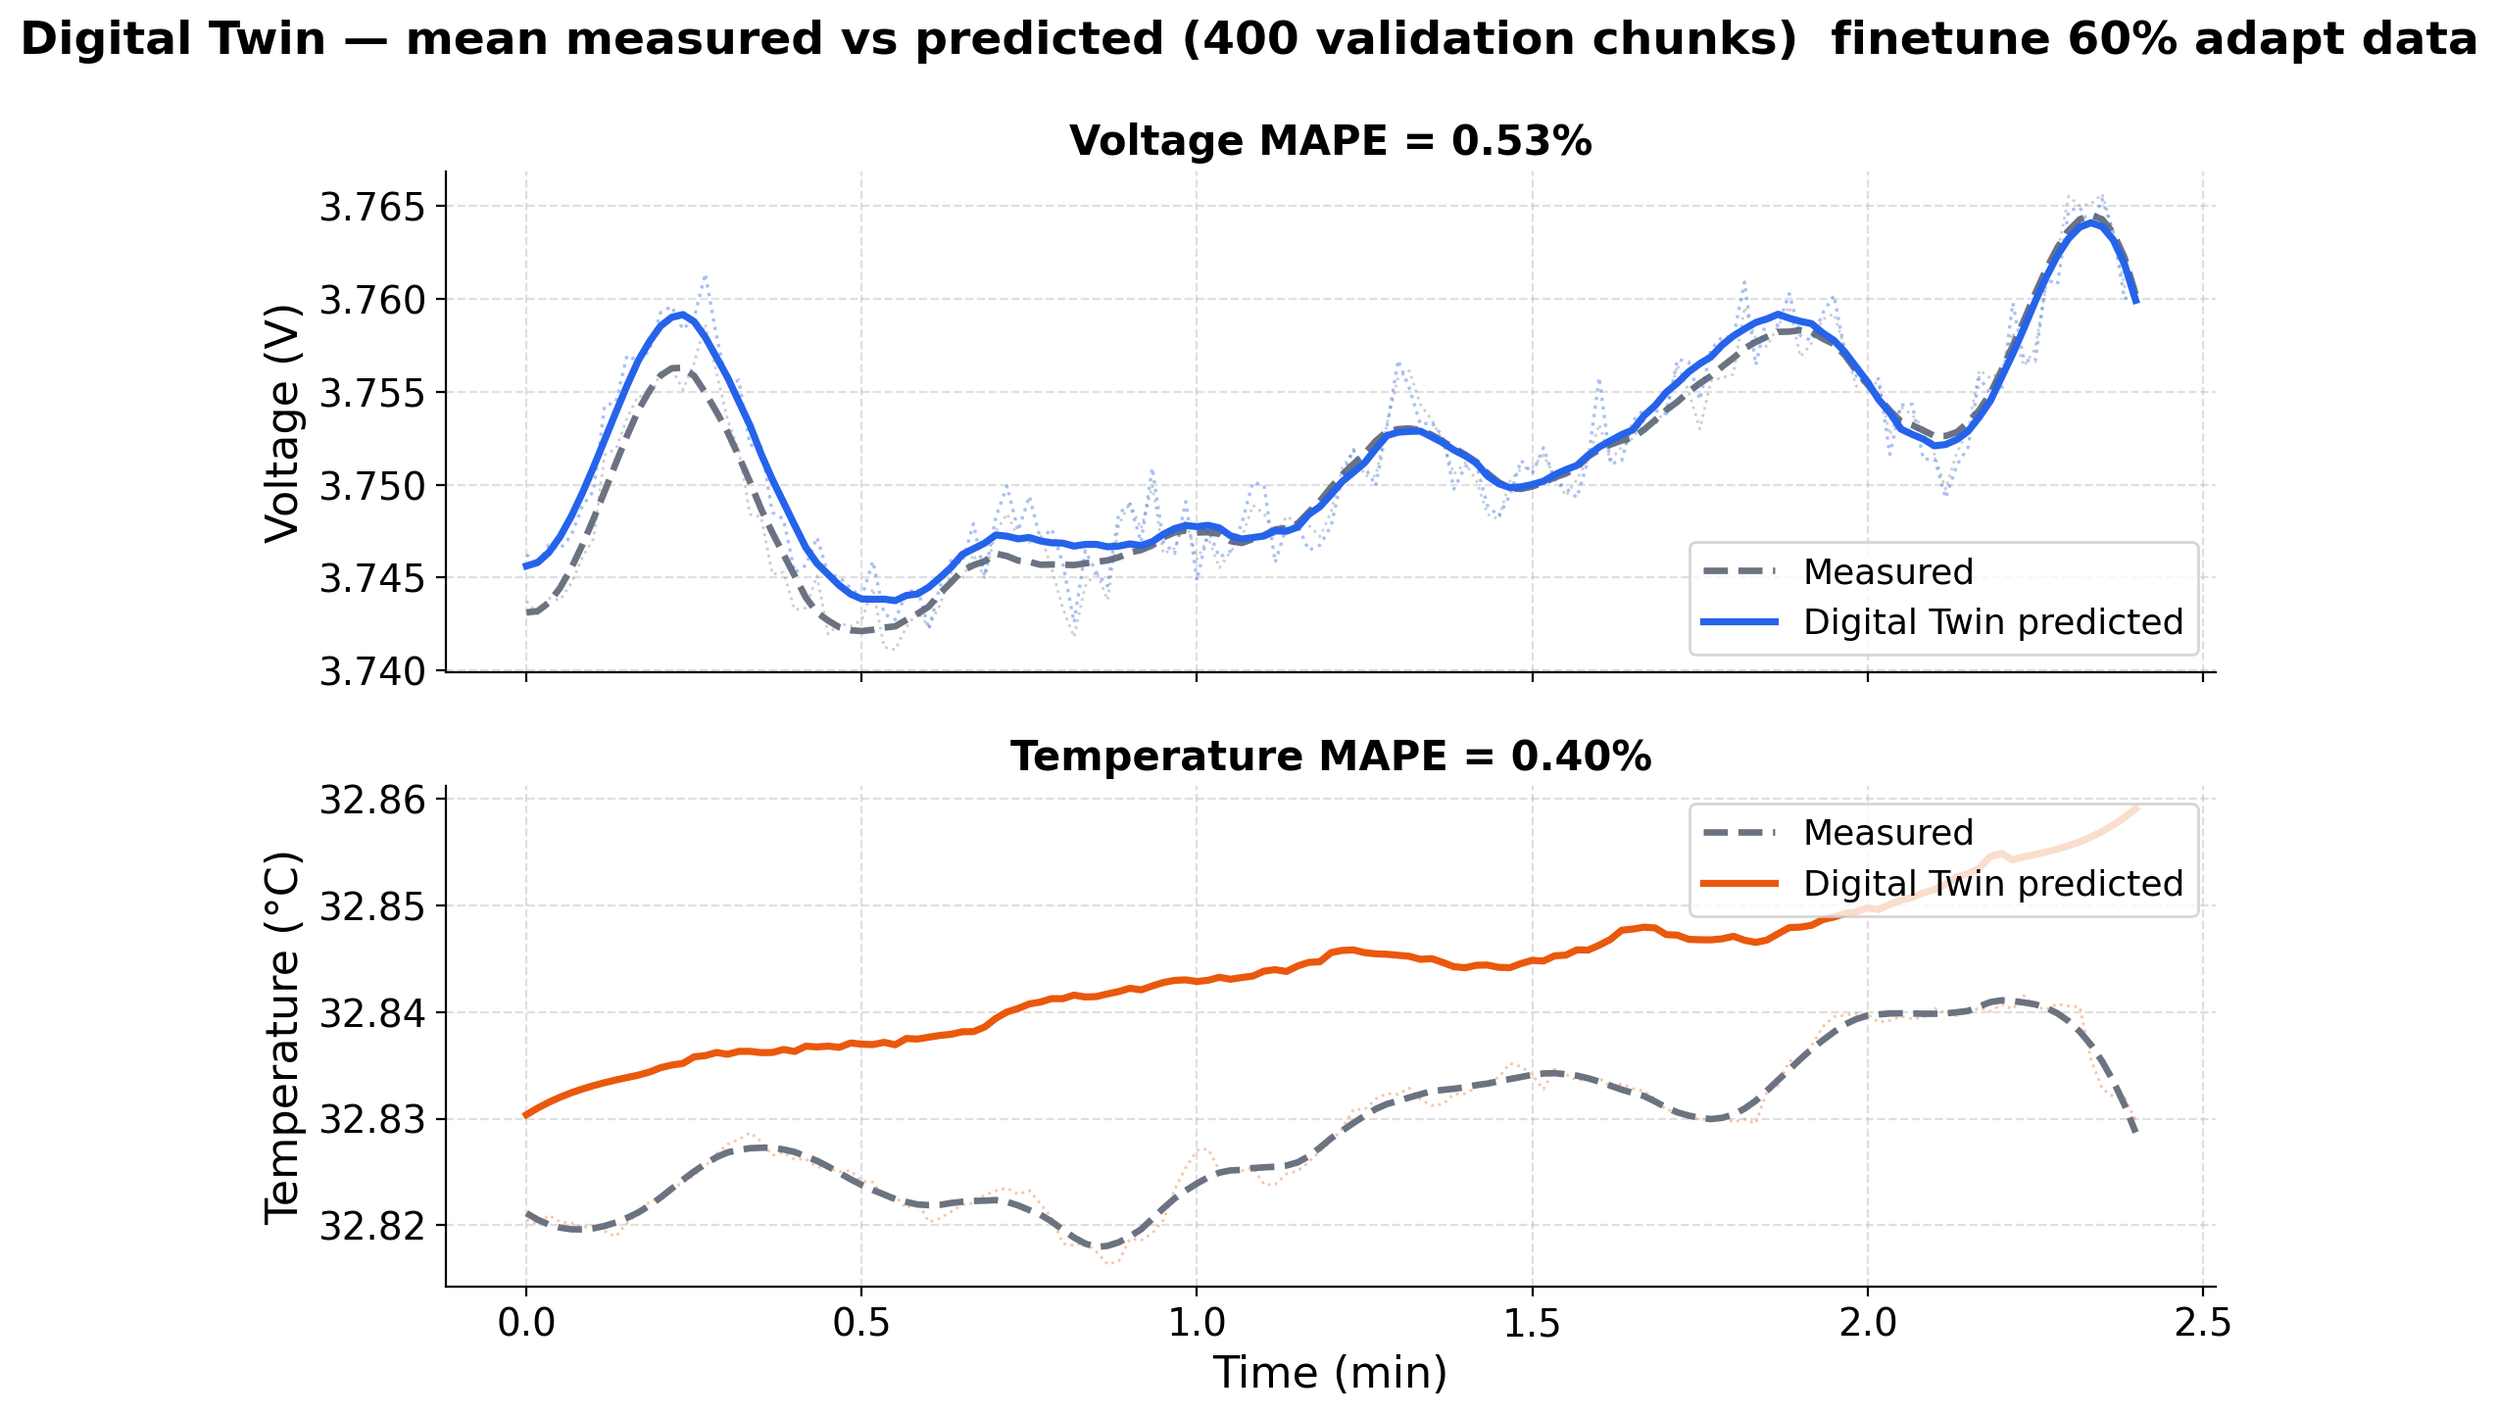
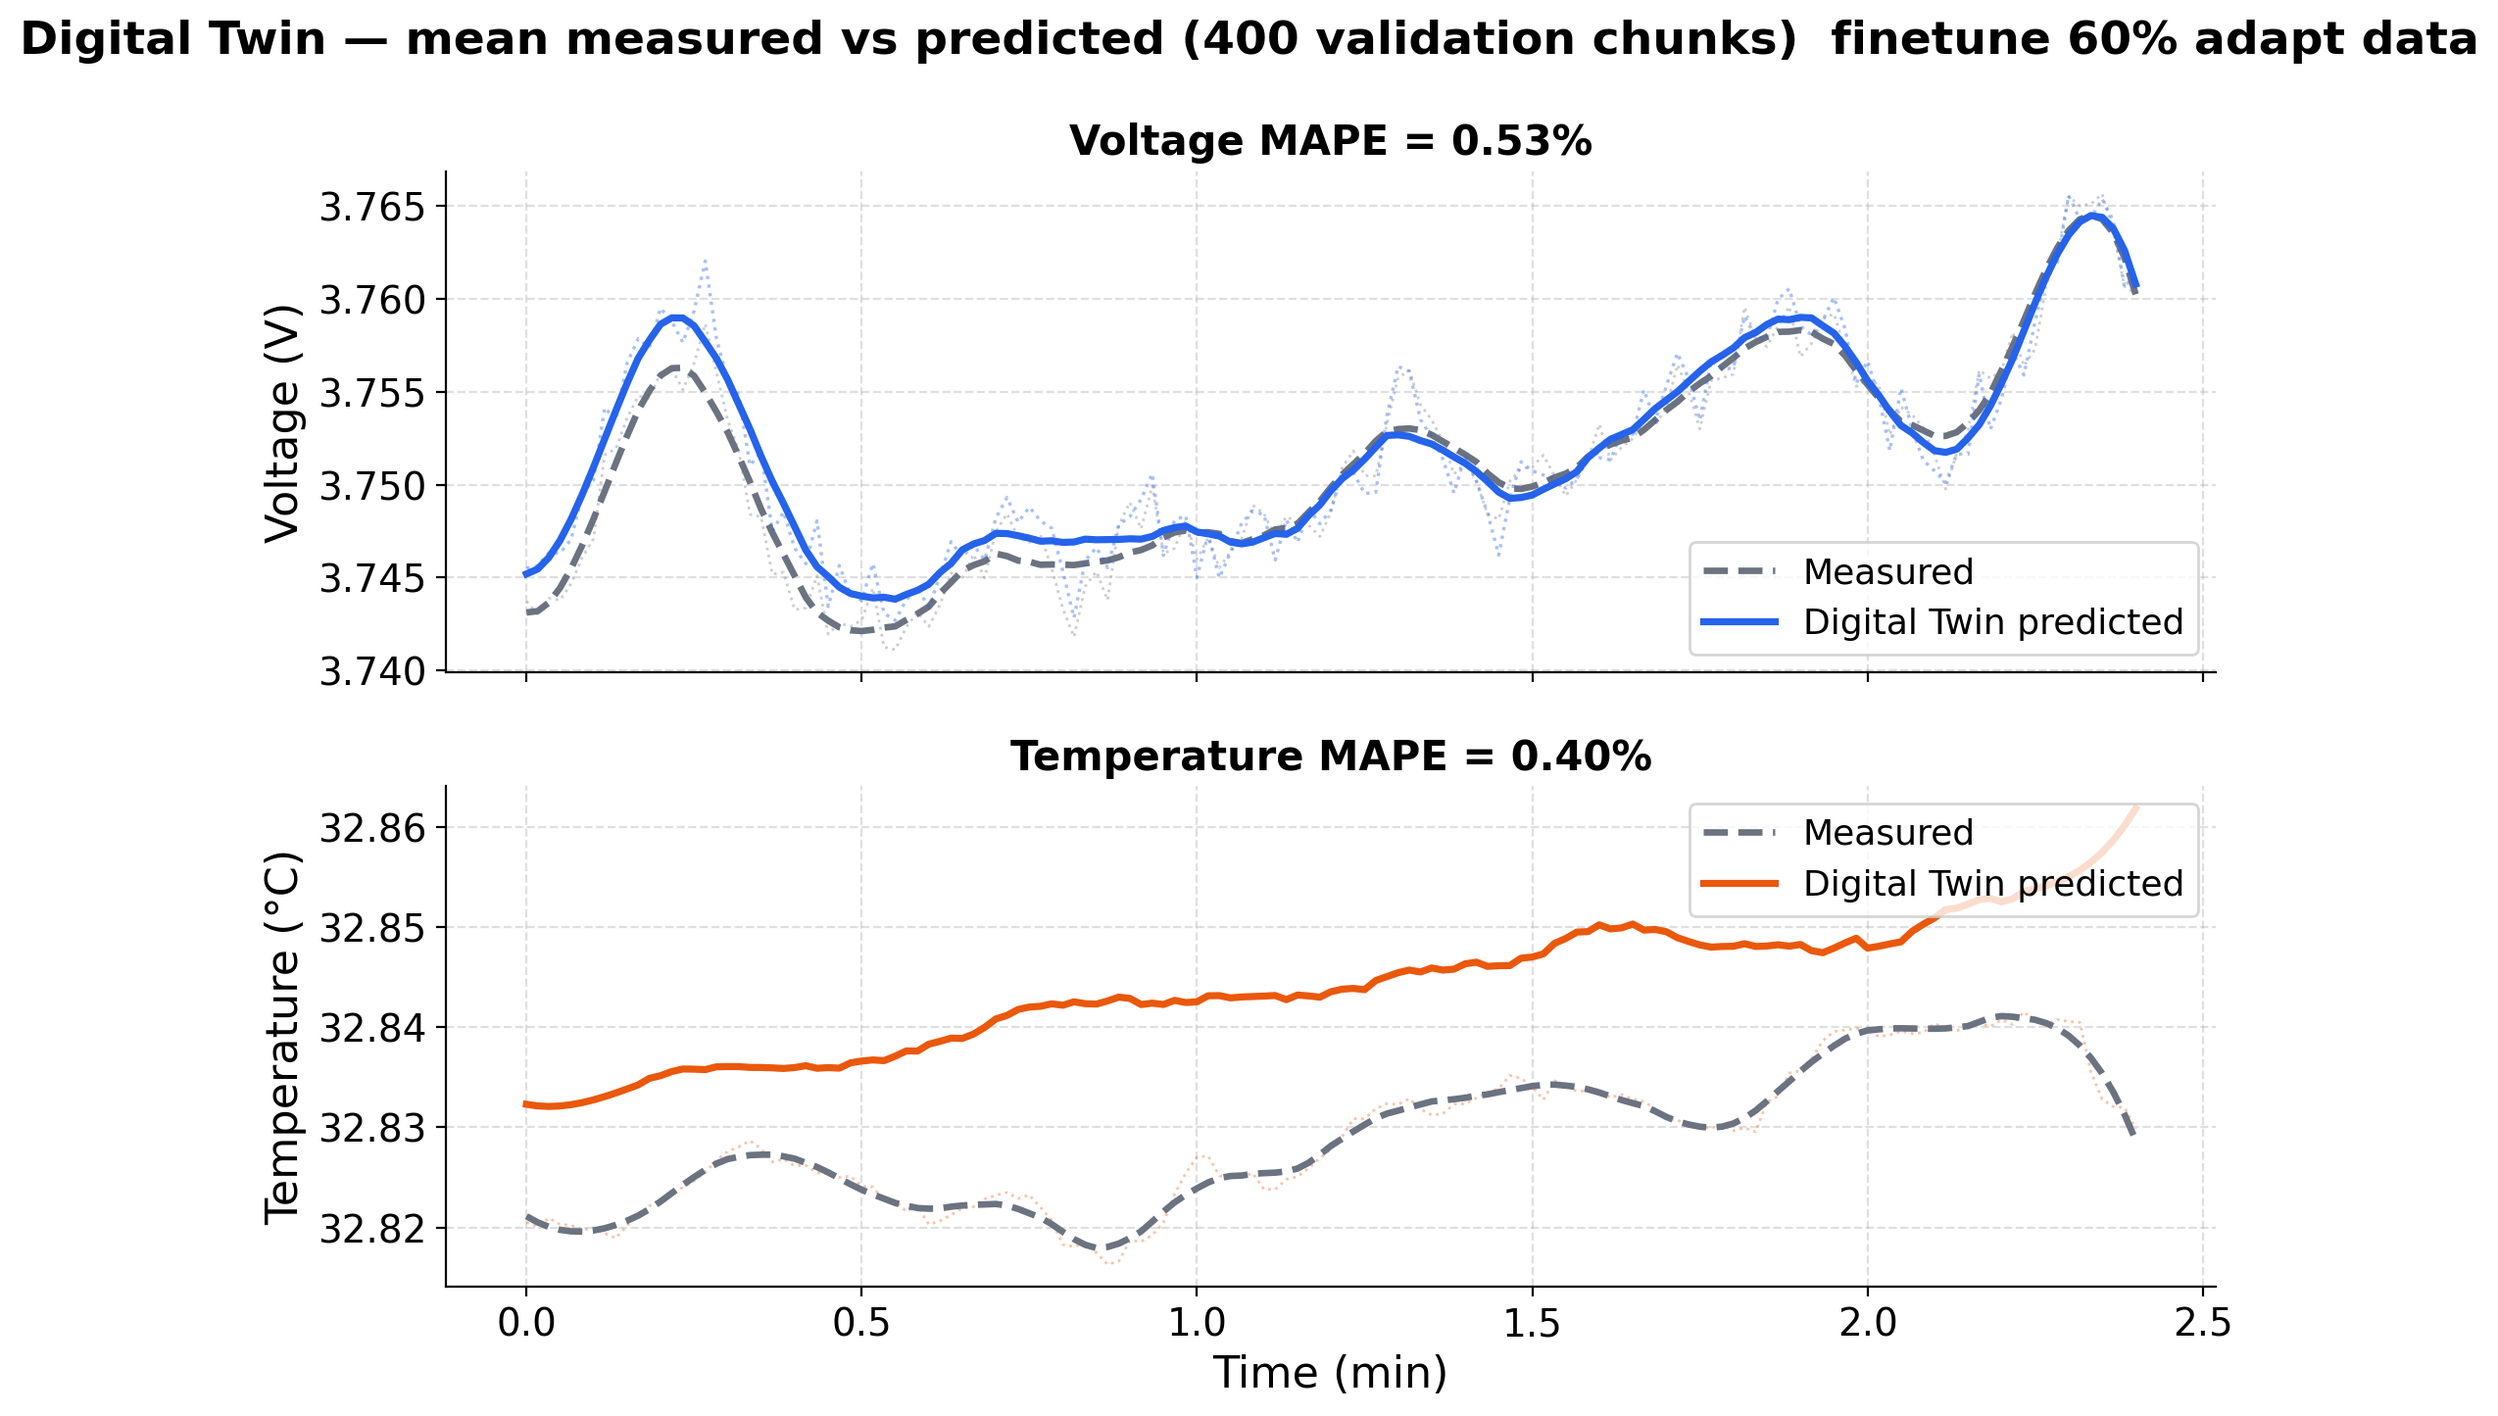
updated paper level results

diff --git a/rw_transfer/viz/twin_validation_plots.py b/rw_transfer/viz/twin_validation_plots.py
@@ -425,6 +425,121 @@ def plot_digital_twin_validation(
     _savefig(fig, out_path)
 
 
+def plot_digital_twin_validation_separate(
+    samples: Sequence[Dict[str, Any]],
+    out_dir: Path,
+    *,
+    voltage_ylim: Optional[Tuple[float, float]] = None,
+) -> List[Path]:
+    """
+    Save each voltage / temperature panel as its own square PNG (no figure title).
+
+    Intended for LaTeX ``\\includegraphics`` arrangement. Files land in ``out_dir``:
+      chunk{idx}_voltage.png , chunk{idx}_temperature.png
+    """
+    if not samples:
+        return []
+
+    out_dir = Path(out_dir)
+    out_dir.mkdir(parents=True, exist_ok=True)
+
+    label_fs, title_fs, tick_fs, legend_fs = 9, 8, 8, 6.5
+    line_lw, spine_lw = 1.6, 0.75
+    text_kw = dict(fontsize=label_fs, fontfamily="DejaVu Serif")
+    title_kw = dict(fontsize=title_fs, fontweight="bold", fontfamily="DejaVu Serif", pad=2)
+    legend_kw = dict(
+        fontsize=legend_fs, framealpha=0.9, borderpad=0.25, labelspacing=0.25,
+        handlelength=1.4, handletextpad=0.4,
+        prop={"family": "DejaVu Serif", "size": legend_fs},
+    )
+    saved: List[Path] = []
+
+    def _style(ax: plt.Axes) -> None:
+        ax.set_facecolor(LIGHT_BG)
+        ax.grid(False)
+        ax.set_box_aspect(1)
+        ax.tick_params(labelsize=tick_fs, width=spine_lw, length=2.2, pad=1.0)
+        ax.spines["top"].set_visible(False)
+        ax.spines["right"].set_visible(False)
+        for spine in ("bottom", "left"):
+            ax.spines[spine].set_linewidth(spine_lw)
+        for lab in ax.get_xticklabels() + ax.get_yticklabels():
+            lab.set_fontfamily("DejaVu Serif")
+
+    for samp in samples:
+        st = samp["burn_in"]
+        T = len(samp["v_actual"])
+        t_axis = samp["t_minutes"][st:] if len(samp["t_minutes"]) >= T - st else (
+            np.arange(T - st, dtype=np.float64) * samp["dt_s"] / 60.0
+        )
+        v_a = samp["v_actual"][st:]
+        v_p = samp["v_pred"][st:]
+        t_a = samp["t_actual"][st:]
+        t_p = samp["t_pred"][st:]
+        cid = int(samp["chunk_idx"])
+
+        # ── voltage ──────────────────────────────────────────────────────────
+        fig, ax = plt.subplots(figsize=(2.2, 2.2), facecolor=LIGHT_BG)
+        _style(ax)
+        ax.plot(t_axis, v_a, color=GREY, linestyle=":", alpha=0.35, lw=1.0, zorder=1)
+        ax.plot(
+            t_axis, _savgol_display(v_a), color=GREY, linestyle="--",
+            label="Measured", alpha=0.85, lw=line_lw, zorder=2,
+        )
+        ax.plot(t_axis, v_p, color=ACCENT, linestyle=":", alpha=0.4, lw=1.0, zorder=3)
+        ax.plot(
+            t_axis, _savgol_display(v_p), color=ACCENT, linestyle="-",
+            label="Predicted", lw=line_lw, zorder=4,
+        )
+        ax.set_title(
+            f"Chunk {cid} — Rel. age = {samp['rel_age']:.3f}\n"
+            f"Voltage MAPE = {samp['mape_v']:.2f}%",
+            **title_kw,
+        )
+        ax.set_xlabel("Time (min)", **text_kw)
+        ax.set_ylabel("Voltage (V)", **text_kw)
+        ax.legend(loc="best", **legend_kw)
+        if voltage_ylim is not None:
+            ax.set_ylim(*voltage_ylim)
+        else:
+            v_lo = min(float(np.min(v_a)), float(np.min(v_p)))
+            v_hi = max(float(np.max(v_a)), float(np.max(v_p)))
+            pad = max(0.05, 0.05 * (v_hi - v_lo))
+            ax.set_ylim(v_lo - pad, v_hi + pad)
+        fig.subplots_adjust(left=0.22, right=0.98, bottom=0.18, top=0.82)
+        v_path = out_dir / f"chunk{cid}_voltage.png"
+        _savefig(fig, v_path, dpi=400, pad_inches=0.01)
+        saved.append(v_path)
+
+        # ── temperature ──────────────────────────────────────────────────────
+        fig, ax = plt.subplots(figsize=(2.2, 2.2), facecolor=LIGHT_BG)
+        _style(ax)
+        ax.plot(t_axis, t_a, color=ORANGE, linestyle=":", alpha=0.35, lw=1.0, zorder=1)
+        ax.plot(
+            t_axis, _savgol_display(t_a), color=GREY, linestyle="--",
+            label="Measured", alpha=0.85, lw=line_lw, zorder=2,
+        )
+        ax.plot(t_axis, t_p, color=ORANGE, linestyle=":", alpha=0.4, lw=1.0, zorder=3)
+        ax.plot(
+            t_axis, _savgol_display(t_p), color=ORANGE, linestyle="-",
+            label="Predicted", lw=line_lw, zorder=4,
+        )
+        ax.set_title(
+            f"Chunk {cid} — Rel. age = {samp['rel_age']:.3f}\n"
+            f"Temperature MAPE = {samp['mape_t']:.2f}%",
+            **title_kw,
+        )
+        ax.set_xlabel("Time (min)", **text_kw)
+        ax.set_ylabel("Temperature (°C)", **text_kw)
+        ax.legend(loc="best", **legend_kw)
+        fig.subplots_adjust(left=0.22, right=0.98, bottom=0.18, top=0.82)
+        t_path = out_dir / f"chunk{cid}_temperature.png"
+        _savefig(fig, t_path, dpi=400, pad_inches=0.01)
+        saved.append(t_path)
+
+    return saved
+
+
 @torch.no_grad()
 def compute_val_mean_trajectories(
     trainer: TwinTrainer,

diff --git a/rw_transfer/viz/plots.py b/rw_transfer/viz/plots.py
@@ -54,11 +54,11 @@ SCRATCH_COLOR  = ORANGE
 FULL_COLOR     = GREEN
 
 
-def _savefig(fig: plt.Figure, path: Path, **kwargs) -> None:
+def _savefig(fig: plt.Figure, path: Path, dpi: int = 200, pad_inches: float = 0.1, **kwargs) -> None:
     path = Path(path)
     path.parent.mkdir(parents=True, exist_ok=True)
     fig.savefig(
-        path, dpi=200, bbox_inches="tight",
+        path, dpi=dpi, bbox_inches="tight", pad_inches=pad_inches,
         facecolor=LIGHT_BG, edgecolor=LIGHT_BG, transparent=False, **kwargs,
     )
     plt.close(fig)
@@ -67,7 +67,7 @@ def _savefig(fig: plt.Figure, path: Path, **kwargs) -> None:
 # ── Training curves ───────────────────────────────────────────────────────────
 
 def plot_twin_training_curves(log_path: Path, out_path: Path) -> None:
-    """Training loss + val V/T RMSE over epochs from JSONL log."""
+    """Save three separate square panels (loss / V / T) for LaTeX arrangement."""
     log_path = Path(log_path)
     if not log_path.is_file():
         return
@@ -80,32 +80,44 @@ def plot_twin_training_curves(log_path: Path, out_path: Path) -> None:
             val_v.append(row.get("val_voltage_rmse"))
             val_t.append(row.get("val_temp_rmse"))
 
-    fig, axes = plt.subplots(1, 3, figsize=(13, 3.5), facecolor=LIGHT_BG)
-    for ax in axes:
+    label_fs, title_fs, tick_fs = 8, 7.5, 7
+    line_lw, spine_lw = 1.5, 0.75
+    text_kw = dict(fontsize=label_fs, fontfamily="DejaVu Serif")
+    title_kw = dict(fontsize=title_fs, fontweight="bold", fontfamily="DejaVu Serif", pad=2)
+    plot_kw = dict(lw=line_lw, solid_capstyle="round", solid_joinstyle="round", antialiased=True)
+
+    panels = [
+        ("loss", train_loss, ACCENT, "Train loss", "Training Loss\n(Weighted MSE)"),
+        ("voltage", val_v, ORANGE, "RMSE (V)", "Val voltage\nRMSE"),
+        ("temp", val_t, GREEN, "RMSE (°C)", "Val temperature\nRMSE"),
+    ]
+
+    out_path = Path(out_path)
+    for key, y, color, ylabel, title in panels:
+        if key == "temp" and not any(v is not None and np.isfinite(v) for v in val_t):
+            continue
+
+        fig, ax = plt.subplots(figsize=(1.6, 1.6), facecolor=LIGHT_BG)
         ax.set_facecolor(LIGHT_BG)
+        ax.grid(False)
+        ax.set_box_aspect(1)
+        ax.tick_params(labelsize=tick_fs, width=spine_lw, length=2.2, pad=1.0)
+        ax.spines["top"].set_visible(False)
+        ax.spines["right"].set_visible(False)
+        for spine in ("bottom", "left"):
+            ax.spines[spine].set_linewidth(spine_lw)
 
-    axes[0].plot(epochs, train_loss, color=ACCENT, lw=1.5)
-    axes[0].set_xlabel("Epoch")
-    axes[0].set_ylabel("Train loss")
-    axes[0].set_title("Training loss (weighted MSE)")
+        ax.plot(epochs, y, color=color, **plot_kw)
+        ax.set_xlabel("Epoch", **text_kw)
+        ax.set_ylabel(ylabel, **text_kw)
+        ax.set_title(title, **title_kw)
+        ax.set_xticks([0, 50, 100])
+        for label in ax.get_xticklabels() + ax.get_yticklabels():
+            label.set_fontfamily("DejaVu Serif")
 
-    axes[1].plot(epochs, val_v, color=ORANGE, lw=1.5)
-    axes[1].set_xlabel("Epoch")
-    axes[1].set_ylabel("RMSE (V)")
-    axes[1].set_title("Val voltage RMSE")
-
-    has_t = any(v is not None and np.isfinite(v) for v in val_t)
-    if has_t:
-        axes[2].plot(epochs, val_t, color=GREEN, lw=1.5)
-        axes[2].set_xlabel("Epoch")
-        axes[2].set_ylabel("RMSE (°C)")
-        axes[2].set_title("Val temperature RMSE")
-    else:
-        axes[2].set_visible(False)
-
-    fig.suptitle("Digital twin — training curves", fontsize=11, fontweight="bold")
-    fig.tight_layout()
-    _savefig(fig, out_path)
+        fig.subplots_adjust(left=0.22, right=0.98, bottom=0.20, top=0.82)
+        panel_path = out_path.with_name(f"{out_path.stem}_{key}{out_path.suffix}")
+        _savefig(fig, panel_path, dpi=400, pad_inches=0.01)
 
 
 def plot_soc_training_curves(log_path: Path, out_path: Path) -> None:

diff --git a/scripts/export_digital_twin_panels.py b/scripts/export_digital_twin_panels.py
@@ -1,0 +1,99 @@
+#!/usr/bin/env python3
+"""
+Export separate square digital-twin validation panels for LaTeX.
+
+For each cell under final_seperate_graphs/{RW9,RW10,RW11,RW12}/ creates:
+
+    digital_twin_panels/chunk{idx}_voltage.png
+    digital_twin_panels/chunk{idx}_temperature.png
+
+No overall figure title; minimal margins; manuscript-sized serif fonts.
+
+Usage
+-----
+    python scripts/export_digital_twin_panels.py --device cpu
+"""
+
+from __future__ import annotations
+
+import argparse
+import json
+import sys
+from pathlib import Path
+
+ROOT = Path(__file__).resolve().parents[1]
+sys.path.insert(0, str(ROOT))
+
+from rw_transfer.config import load_config
+from rw_transfer.data.author_dataset import AuthorChunkDataset, random_split_author_dataset
+from rw_transfer.data.author_loader import load_author_stitched_series
+from rw_transfer.training.twin_trainer import TwinTrainer
+from rw_transfer.viz.twin_validation_plots import (
+    pick_best_validation_chunks,
+    plot_digital_twin_validation_separate,
+)
+
+BASE = ROOT / "outputs" / "final_twin_for_all_cell" / "final_seperate_graphs"
+CELLS = ("RW9", "RW10", "RW11", "RW12")
+
+
+def _export_cell(cell: str, device: str, n_panels: int, burn_in: int, seed: int) -> None:
+    metrics_path = BASE / cell / "metrics.json"
+    if not metrics_path.is_file():
+        print(f"  skip {cell}: no metrics.json")
+        return
+    meta = json.loads(metrics_path.read_text())
+    ckpt = Path(meta["ckpt"])
+    if not ckpt.is_file():
+        print(f"  skip {cell}: missing ckpt {ckpt}")
+        return
+
+    cfg = load_config(None)
+    twin_cfg = cfg["twin"]
+    matlab_dir = cfg["data"]["matlab_dir"]
+    decimation = int(cfg["data"].get("decimation", 1))
+    chunk_size = int(twin_cfg.get("chunk_size", cfg["windows"]["seq_len"]))
+    split_cfg = twin_cfg.get("author_split", {})
+    train_frac = float(split_cfg.get("train_frac", 0.6))
+    val_frac = float(split_cfg.get("val_frac", 0.2))
+
+    out_dir = BASE / cell / "digital_twin_panels"
+    print(f"\n=== {cell}  ckpt={ckpt.name}  →  {out_dir}")
+
+    stitched = load_author_stitched_series(matlab_dir, cell, decimation=decimation)
+    dataset = AuthorChunkDataset(stitched, chunk_size=chunk_size)
+    _, _, test_set = random_split_author_dataset(
+        dataset, train_frac=train_frac, val_frac=val_frac, seed=seed,
+    )
+    trainer = TwinTrainer.load(ckpt, device=device, seq_len=chunk_size)
+
+    samples = pick_best_validation_chunks(
+        trainer, test_set, stitched, n=n_panels, burn_in=burn_in,
+        age_min=0.25, age_max=0.75,
+    )
+    if not samples:
+        samples = pick_best_validation_chunks(
+            trainer, test_set, stitched, n=n_panels, burn_in=burn_in,
+        )
+
+    saved = plot_digital_twin_validation_separate(samples, out_dir)
+    for p in saved:
+        print(f"  saved {p.name}")
+
+
+def main() -> None:
+    ap = argparse.ArgumentParser()
+    ap.add_argument("--device", default="cpu")
+    ap.add_argument("--n_panels", type=int, default=3)
+    ap.add_argument("--burn_in", type=int, default=5)
+    ap.add_argument("--seed", type=int, default=42)
+    ap.add_argument("--cells", nargs="+", default=list(CELLS))
+    args = ap.parse_args()
+
+    for cell in args.cells:
+        _export_cell(cell, args.device, args.n_panels, args.burn_in, args.seed)
+    print("\nDone.")
+
+
+if __name__ == "__main__":
+    main()
